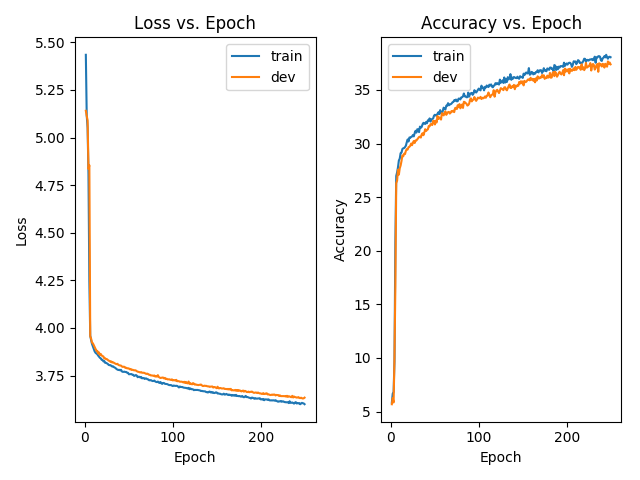
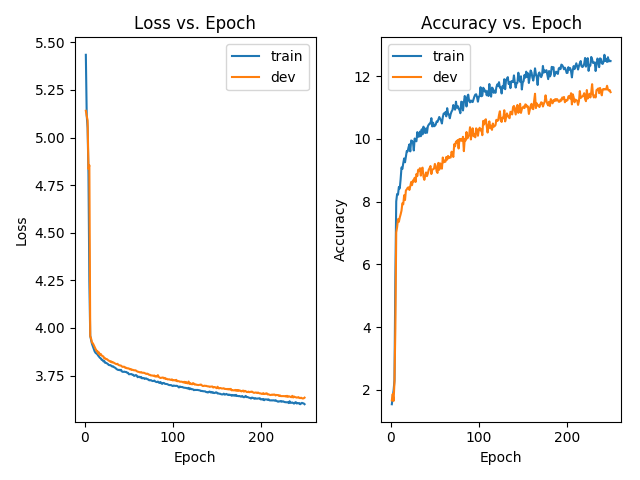
fixed plotter and made new figs

diff --git a/plotter.py b/plotter.py
@@ -23,8 +23,8 @@ data_train = np.genfromtxt("./" + sys.argv[-1]) #sys.argv[-1] looks at last term
 epochs = data_train[:,0] 
 loss_train = data_train[:,3]
 loss_dev = data_dev[:,2]
-acc_train = data_train[:,5]
-acc_dev = data_dev[:,4] 
+acc_train = data_train[:,4]
+acc_dev = data_dev[:,3] 
 
 #Loss vs. Epoch
 plt.figure(1)
